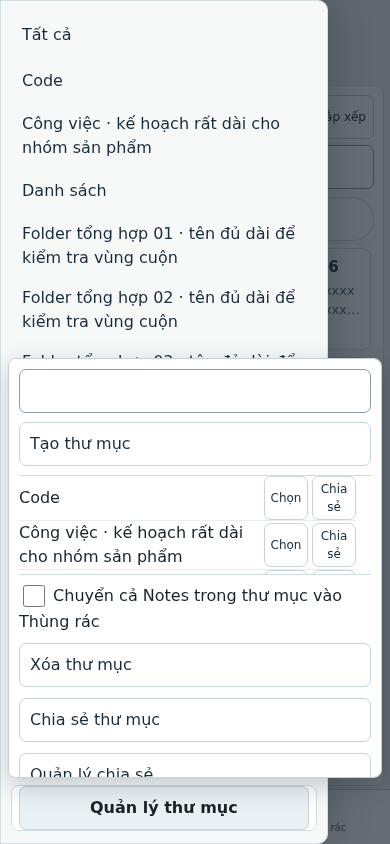
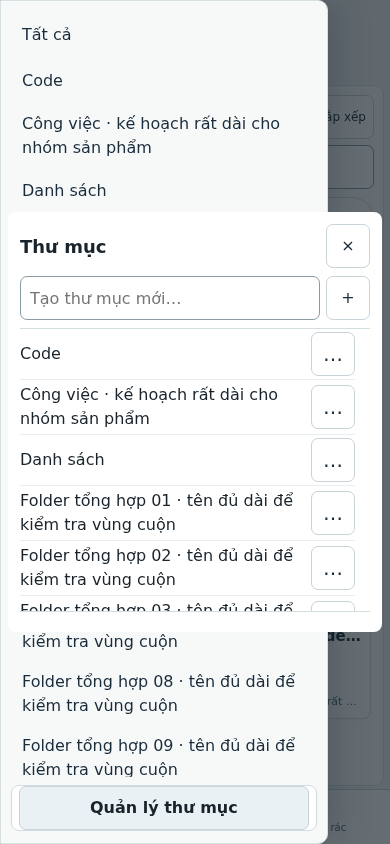
ui: simplify folder manager actions

diff --git a/public/app.js b/public/app.js
@@ -3,19 +3,19 @@ import {NoteCache,reusableNote,MAX_CACHED_NOTE_BYTES,MAX_CACHED_CONTENT_BYTES,MA
 import {SyncDraft,apiClient,patientRetry,RequestLane,clone} from './sync.js';
 const $=id=>document.getElementById(id),sessions=new Map(),requestLane=new RequestLane(),editorAnchor=document.createComment('editor-home');$('editor').before(editorAnchor);
 let active=null,notes=[],folders=[],folder='',scope='owner',shared=null,api=appApi(),authenticated=false,timer,refreshing=false,undo=null,shareTarget=null,canEdit=true,selecting=false,selected=new Set(),pending=0,foregroundWork=0,openSequence=0;
-let sortMode='updated-desc',noteOrder=[],orderRevision=null,organizing=false,sortOpen=false,folderManagerSignature='';
+let sortMode='updated-desc',noteOrder=[],orderRevision=null,organizing=false,sortOpen=false,folderManagerSignature='',folderActionFolder='',folderActionAnchor=null,folderDeleteTarget='';
 let sharedFolders=new Set(),folderShareSequence=0,cacheWrite=Promise.resolve(),cacheWriteVersion=0,composingEditor=false;
 let editorReturnFocus=null,editorReturnNoteId=null,inTrash=false,trashNotes=[],refreshQueued=false;const trashSelection=new Map();const contentCache=new Map();const cache=new NoteCache();let cacheScope=null,cacheState={notes:[],folders:[],content:{}};
 const actionMenuPortals=new Map(),searchIndex=new Map();
 function positionActionMenu(menu,panel){
- const anchor=menu.querySelector(':scope > summary')?.getBoundingClientRect();if(!anchor)return;
+ const anchor=(menu._anchorElement??menu.querySelector(':scope > summary'))?.getBoundingClientRect();if(!anchor)return;
  const zoom=Number.parseFloat(getComputedStyle(document.documentElement).zoom)||1,vv=window.visualViewport,left=vv?.offsetLeft??0,top=vv?.offsetTop??0,right=left+(vv?.width??document.documentElement.clientWidth),bottom=top+(vv?.height??document.documentElement.clientHeight),gap=8;
  panel.style.left='0px';panel.style.top='0px';panel.style.right='auto';panel.style.bottom='auto';
  const availableWidth=Math.max(0,right-left-gap*2)/zoom;panel.style.maxWidth=availableWidth+'px';panel.style.minWidth=Math.min(220,availableWidth)+'px';
  const width=panel.getBoundingClientRect().width,spaceBelow=bottom-anchor.bottom-gap,spaceAbove=anchor.top-top-gap,needed=panel.scrollHeight*zoom,useBelow=needed<=spaceBelow||spaceBelow>=spaceAbove,space=useBelow?spaceBelow:spaceAbove;
  const preferredHeight=panel.classList.contains('folder-manager-panel')?420:620;
- panel.style.maxHeight=Math.max(72,Math.min(preferredHeight,(space-gap)/zoom))+'px';
- const height=panel.getBoundingClientRect().height;let x=anchor.right-width;
+ panel.style.maxHeight=Math.max(72,Math.min(preferredHeight,(bottom-top-gap*2)/zoom))+'px';
+ const height=panel.getBoundingClientRect().height;if(panel.classList.contains('folder-manager-panel')){panel.style.left=Math.round((left+Math.max(gap,(right-left-width)/2))/zoom)+'px';panel.style.top=Math.round((top+Math.max(gap,(bottom-top-height)/2))/zoom)+'px';return;}let x=anchor.right-width;
  if(x<left+gap&&anchor.left+width<=right-gap)x=anchor.left;
  x=Math.max(left+gap,Math.min(x,Math.max(left+gap,right-width-gap)));
  let y=useBelow?anchor.bottom+gap:anchor.top-height-gap;
@@ -32,11 +32,11 @@ function installActionMenuPortals(){
   menu.addEventListener('toggle',()=>{panel.hidden=!menu.open;if(menu.open){positionActionMenu(menu,panel);if(focusFirstOnOpen){focusFirstOnOpen=false;panel.querySelector('button:not([disabled]),input:not([disabled]),select:not([disabled])')?.focus({preventScroll:true});}}else{focusFirstOnOpen=false;focusFirstOnTabUp=false;}});
   summary.addEventListener('keydown',event=>{if(event.key==='ArrowDown'&&!menu.open){event.preventDefault();focusFirstOnOpen=false;menu.open=true;panel.hidden=false;positionActionMenu(menu,panel);panel.querySelector('button:not([disabled]),input:not([disabled]),select:not([disabled])')?.focus({preventScroll:true});}else if(event.key==='Tab'&&menu.open&&!event.shiftKey){const first=panel.querySelector('button:not([disabled]),input:not([disabled]),select:not([disabled])');if(first){event.preventDefault();focusFirstOnTabUp=true;first.focus({preventScroll:true});}}});
   document.addEventListener('keyup',event=>{if(event.key==='Tab'&&focusFirstOnTabUp){focusFirstOnTabUp=false;event.preventDefault();setTimeout(()=>{if(menu.open)panel.querySelector('button:not([disabled]),input:not([disabled]),select:not([disabled])')?.focus({preventScroll:true});},0);}});
-  panel.addEventListener('keydown',event=>{if(event.key!=='Tab')return;const items=[...panel.querySelectorAll('button:not([disabled]),input:not([disabled]),select:not([disabled]),a[href]')].filter(item=>item.getClientRects().length);if(!items.length)return;if(event.shiftKey&&document.activeElement===items[0]){event.preventDefault();summary.focus({preventScroll:true});}else if(!event.shiftKey&&document.activeElement===items.at(-1)){event.preventDefault();menu.open=false;const all=[...document.querySelectorAll('button:not([disabled]),summary:not([aria-disabled=true]),input:not([disabled]),select:not([disabled]),a[href]')].filter(item=>item.getClientRects().length);const index=all.indexOf(summary);all[index+1]?.focus({preventScroll:true});}});
+  panel.addEventListener('keydown',event=>{if(event.key!=='Tab')return;const returnTarget=menu._anchorElement??summary;const items=[...panel.querySelectorAll('button:not([disabled]),input:not([disabled]),select:not([disabled]),a[href]')].filter(item=>item.getClientRects().length);if(!items.length)return;if(event.shiftKey&&document.activeElement===items[0]){event.preventDefault();returnTarget.focus({preventScroll:true});}else if(!event.shiftKey&&document.activeElement===items.at(-1)){event.preventDefault();menu.open=false;const all=[...document.querySelectorAll('button:not([disabled]),summary:not([aria-disabled=true]),input:not([disabled]),select:not([disabled]),a[href]')].filter(item=>item.getClientRects().length);const index=all.indexOf(returnTarget);all[index+1]?.focus({preventScroll:true});}});
  }
  document.addEventListener('scroll',event=>{if(event.target?.closest?.('.menu-panel-portal'))return;repositionOpenActionMenus();},true);window.addEventListener('resize',repositionOpenActionMenus);window.visualViewport?.addEventListener('resize',repositionOpenActionMenus);window.visualViewport?.addEventListener('scroll',repositionOpenActionMenus);
  document.addEventListener('pointerdown',event=>{for(const {menu,panel} of actionMenuPortals.values())if(menu.open&&!menu.contains(event.target)&&!panel.contains(event.target))menu.open=false;});
- document.addEventListener('click',event=>{const panel=event.target.closest?.('.menu-panel-portal');if(!panel||!event.target.closest('button,a[href]'))return;const menu=actionMenuPortals.get(panel.dataset.menuOwner)?.menu;if(menu?.open)menu.open=false;});
+ document.addEventListener('click',event=>{if(event.target.closest?.('[aria-haspopup=menu]'))return;const panel=event.target.closest?.('.menu-panel-portal');if(!panel||!event.target.closest('button,a[href]'))return;const menu=actionMenuPortals.get(panel.dataset.menuOwner)?.menu;if(menu?.open)menu.open=false;});
 }
 async function cacheAuth(state){sharedFolders.clear();state??=await api('auth');if(!state.authenticated)throw Object.assign(Error('LOGIN_REQUIRED'),{status:401});cacheScope=state.cacheScope;++cacheWriteVersion;const saved=await cache.get(cacheScope).catch(()=>null),validRows=Array.isArray(saved?.notes)?saved.notes.filter(n=>n&&typeof n.id==='string'&&typeof n.title==='string'&&typeof n.text==='string'&&typeof n.revision==='string'):[],validFolders=Array.isArray(saved?.folders)?saved.folders.filter(f=>typeof f==='string'):[];cacheState=saved&&typeof saved==='object'?{...saved,notes:validRows,folders:validFolders,content:saved.content&&typeof saved.content==='object'&&!Array.isArray(saved.content)?saved.content:{}}:{notes:[],folders:[],content:{}};contentCache.clear();const rows=new Map(cacheState.notes.map(n=>[n.id,n]));for(const [id,item] of Object.entries(cacheState.content)){if(reusableNote(item?.note,rows.get(id))&&cachedNoteSize(item.note)<=MAX_CACHED_NOTE_BYTES)contentCache.set(id,{note:item.note,usedAt:item.usedAt??0});else delete cacheState.content[id];}sortMode=sortModes.includes(cacheState.sortMode)?cacheState.sortMode:'updated-desc';noteOrder=Array.isArray(cacheState.order)?cacheState.order:[];orderRevision=cacheState.orderRevision??null;notes=cacheState.notes;folders=cacheState.folders;render();}
 async function clearPrivateCache({all=false}={}){const oldScope=cacheScope;cacheScope=null;++cacheWriteVersion;contentCache.clear();cacheState={notes:[],folders:[],content:{}};active?.dispose();active=null;sessions.clear();notes=[];folders=[];$('title').value='';$('text').value='';$('checklist').replaceChildren();$('history').replaceChildren();setEditorOpen(false);clearShareUI();render();await cacheWrite.catch(()=>{});try{if(oldScope)await cache.delete(oldScope);else if(all)await cache.clearAll();}catch{}}
@@ -107,7 +107,7 @@ function render(){
  $('folder-list').replaceChildren(folderButton('Tất cả','all',()=>{if(inTrash)setEditorOpen(false);inTrash=false;selecting=false;selected.clear();folder='';closeFolderDrawer();showListSurface();render();return refresh();}));
  for(const f of folders){const b=folderButton(f,'folder',()=>{if(inTrash)setEditorOpen(false);inTrash=false;selecting=false;selected.clear();folder=f;closeFolderDrawer();showListSurface();render();return refresh();});b.setAttribute('aria-pressed',String(folder===f));const row=document.createElement('div');row.className='folder-row';row.append(b);if(!shared&&sharedFolders.has(f)){const badge=button('Link',()=>{closeFolderDrawer();showFolderShares(f);});badge.className='folder-share-badge';badge.title='Đang chia sẻ · quản lý liên kết';badge.setAttribute('aria-label','Quản lý chia sẻ thư mục '+f);row.append(badge);}$('folder-list').append(row);}
  if(!shared)$('folder-list').append(folderButton('Thùng rác','trash',showTrash));
- $('folder').replaceChildren(new Option('Chưa phân loại',''),...folders.map(f=>new Option(f,f)));$('folders')?.replaceChildren(...folders.map(f=>new Option(f,f)));const destination=$('move-folder').value;$('move-folder').replaceChildren(new Option('Chưa phân loại',''),...folders.map(f=>new Option(f,f)));if(folders.includes(destination))$('move-folder').value=destination;const current=$('manage-folder').value;$('manage-folder').replaceChildren(new Option('Chọn thư mục…',''),...folders.map(f=>new Option(f,f)));if(folders.includes(current))$('manage-folder').value=current;const rows=$('folder-manager-rows'),signature=JSON.stringify(folders);if(signature!==folderManagerSignature){rows.replaceChildren(...folders.map(name=>{const row=document.createElement('div');row.className='folder-manager-row';const label=document.createElement('span');label.textContent=name;const choose=button('Chọn',()=>{$('manage-folder').value=name;});const shares=button('Chia sẻ',()=>{ $('manage-folder').value=name;showFolderShares(name).catch(fail);});row.append(label,choose,shares);return row;}));folderManagerSignature=signature;}
+ $('folder').replaceChildren(new Option('Chưa phân loại',''),...folders.map(f=>new Option(f,f)));$('folders')?.replaceChildren(...folders.map(f=>new Option(f,f)));const destination=$('move-folder').value;$('move-folder').replaceChildren(new Option('Chưa phân loại',''),...folders.map(f=>new Option(f,f)));if(folders.includes(destination))$('move-folder').value=destination;const rows=$('folder-manager-rows'),signature=JSON.stringify(folders);if(signature!==folderManagerSignature){rows.replaceChildren(...folders.map(name=>{const row=document.createElement('div');row.className='folder-manager-row';const label=document.createElement('span');label.textContent=name;const more=button('…',()=>{const menu=$('folder-row-actions');if(menu.open&&folderActionFolder===name){menu.open=false;more.setAttribute('aria-expanded','false');more.focus({preventScroll:true});return;}folderActionFolder=name;folderActionAnchor=more;menu._anchorElement=more;$('folder-action-name').textContent=name;menu.open=true;more.setAttribute('aria-expanded','true');requestAnimationFrame(()=>menu.open&&$('folder-action-share').focus({preventScroll:true}));});more.setAttribute('aria-label','Thao tác thư mục '+name);more.setAttribute('aria-haspopup','menu');more.setAttribute('aria-expanded','false');more.title='Thao tác thư mục '+name;row.append(label,more);return row;}));folderManagerSignature=signature;}
 }
 async function refresh({background=false,security=false}={}){
  if(!authenticated&&!shared)return;if(background&&!security&&(backgroundBlocked()||active?.dirty))return;if(refreshing){if(!background)refreshQueued=true;return;}const requestScope=cacheScope;refreshing=true;if(!background)busy(true);
@@ -219,16 +219,15 @@ $('history').addEventListener('change',()=>{if(inTrash)return;const v=active.not
 $('conflict-copy').addEventListener('click',async()=>{const old=active;const note={...clone(old.note),id:crypto.randomUUID(),title:(old.note.title+' · bản sao').slice(0,200),history:[]};delete note.revision;active=makeSession(note);active.edit({});fill();await save();if(old) sessions.set(old.note.id,old);});
 $('remote-version').addEventListener('click',async()=>{if(!await hold({navigation:true}))return;const id=active.note.id;sessions.delete(id);active=null;await openNote(id);status('Đã mở bản máy chủ. Thay đổi xung đột vẫn ở trong phiên hiện tại.');});
 $('create-folder').addEventListener('click',async()=>{try{await api('folders',{method:'POST',data:{action:'create',folder:$('new-folder').value}});$('new-folder').value='';await refresh();}catch(e){fail(e);}});
-$('remove-folder').addEventListener('click',async()=>{const f=$('manage-folder').value;const deleteNotes=$('delete-folder-notes').checked;if(!f||!confirm(deleteNotes?'Xóa thư mục và chuyển toàn bộ Note trong thư mục vào trạng thái đã xóa?':'Xóa thư mục và đưa các Note về danh sách tự do?'))return;try{await api('notes',{method:'POST',data:{action:'folderDelete',folder:f,deleteNotes}});if(folder===f)folder='';$('delete-folder-notes').checked=false;await refresh();}catch(e){fail(e);}});
+$('close-folder-manager').addEventListener('click',()=>{$('folder-controls').open=false;$('folder-controls').querySelector(':scope > summary')?.focus({preventScroll:true});});$('folder-row-actions').addEventListener('toggle',()=>folderActionAnchor?.setAttribute('aria-expanded',String($('folder-row-actions').open)));$('folder-action-share').addEventListener('click',()=>{const f=folderActionFolder;$('folder-controls').open=false;if(f)createShare('folder',f).catch(fail);});$('folder-action-manage-shares').addEventListener('click',()=>{const f=folderActionFolder;$('folder-controls').open=false;if(f)showFolderShares(f).catch(fail);});$('folder-action-delete').addEventListener('click',()=>{folderDeleteTarget=folderActionFolder;if(!folderDeleteTarget)return;$('folder-controls').open=false;$('delete-folder-notes').checked=false;$('folder-delete-description').textContent=`Bạn muốn xóa thư mục “${folderDeleteTarget}”?`;if(!$('folder-delete-dialog').open)$('folder-delete-dialog').showModal();$('cancel-folder-delete').focus({preventScroll:true});});$('cancel-folder-delete').addEventListener('click',()=>{folderDeleteTarget='';$('folder-delete-dialog').close();(folderActionAnchor?.isConnected?folderActionAnchor:$('folder-controls').querySelector(':scope > summary'))?.focus({preventScroll:true});});$('folder-delete-dialog').addEventListener('cancel',()=>{folderDeleteTarget='';});$('confirm-folder-delete').addEventListener('click',async()=>{const f=folderDeleteTarget,deleteNotes=$('delete-folder-notes').checked;if(!f)return;$('confirm-folder-delete').disabled=true;try{await api('notes',{method:'POST',data:{action:'folderDelete',folder:f,deleteNotes}});if(folder===f)folder='';folderDeleteTarget='';$('folder-delete-dialog').close();$('delete-folder-notes').checked=false;await refresh();}catch(e){fail(e);}finally{$('confirm-folder-delete').disabled=false;}});
 $('note-sharing').addEventListener('toggle',()=>{if($('note-sharing').open&&!inTrash&&!shared&&active?.baseRevision)loadShares('note',active.note.id).catch(fail);});
-$('manage-folder-shares').addEventListener('click',()=>{const f=$('manage-folder').value;if(f)showFolderShares(f).catch(fail);else status('Hãy chọn thư mục để quản lý chia sẻ.');});
-$('share-folder').addEventListener('click',()=>{const f=$('manage-folder').value;if(f)createShare('folder',f).catch(fail);});$('share-note').addEventListener('click',()=>{if(active&&!active.dirty&&active.baseRevision)createShare('note',active.note.id).catch(fail);else status('Hãy lưu Note trước khi tạo link.');});
+$('share-note').addEventListener('click',()=>{if(active&&!active.dirty&&active.baseRevision)createShare('note',active.note.id).catch(fail);else status('Hãy lưu Note trước khi tạo link.');});
 $('copy-share').addEventListener('click',()=>copyShareLink($('share-url').value,$('share-url'),$('share-copy-status')));
 
 function updateViewportLayout(){resizeTitle();if(!$('editor').hidden)$('editor').setAttribute('aria-modal',String(innerWidth<=1200));const viewport=window.visualViewport;const inset=viewport?Math.max(0,window.innerHeight-viewport.height-viewport.offsetTop):0;document.documentElement.style.setProperty('--keyboard-inset',`${Math.round(inset)}px`);if(innerWidth>1200&&$('workspace').classList.contains('folder-drawer-open'))closeFolderDrawer();const focused=document.activeElement;if(innerWidth<=1200&&inset>80&&$('editor').contains(focused))focused.scrollIntoView({block:'nearest',inline:'nearest'});}
 window.visualViewport?.addEventListener('resize',updateViewportLayout);window.addEventListener('resize',updateViewportLayout);window.addEventListener('orientationchange',updateViewportLayout);updateViewportLayout();
 document.addEventListener('focusin',event=>{if(innerWidth<=1200&&$('editor').contains(event.target))requestAnimationFrame(()=>event.target.scrollIntoView({block:'nearest',inline:'nearest'}));});
-document.addEventListener('keydown',event=>{if(event.key!=='Escape'&&!(event.key==='Tab'&&($('workspace').classList.contains('folder-drawer-open')||!$('editor').hidden)))return;const panel=$('folder-panel');if(event.key==='Tab'&&!$('editor').hidden&&$('editor').getAttribute('aria-modal')==='true'&&!$('workspace').classList.contains('folder-drawer-open')){const root=$('editor'),items=[...root.querySelectorAll('button:not([disabled]),summary:not([aria-disabled=true]),input:not([disabled]),textarea:not([disabled]),select:not([disabled]),a[href]')].filter(el=>el.getClientRects().length);if(items.length){const first=items[0],last=items.at(-1);if(event.shiftKey&&document.activeElement===first){event.preventDefault();last.focus();}else if(!event.shiftKey&&document.activeElement===last){event.preventDefault();first.focus();}}return;}if(event.key==='Tab'&&$('workspace').classList.contains('folder-drawer-open')){const items=[...panel.querySelectorAll('button:not([disabled]),input:not([disabled]),select:not([disabled]),summary')].filter(el=>el.getClientRects().length);if(items.length){const first=items[0],last=items.at(-1);if(event.shiftKey&&document.activeElement===first){event.preventDefault();last.focus();}else if(!event.shiftKey&&document.activeElement===last){event.preventDefault();first.focus();}}return;}if(event.key==='Escape'){if($('workspace').classList.contains('folder-drawer-open')){event.preventDefault();closeFolderDrawer();return;}const opened=[...document.querySelectorAll('#workspace details[open],#editor details[open]')].filter(el=>el.getClientRects().length).at(-1);if(opened){event.preventDefault();opened.open=false;const actionPanel=actionMenuPortals.get(opened.id)?.panel;if(actionPanel)actionPanel.hidden=true;opened.querySelector(':scope > summary')?.focus({preventScroll:true});return;}if(!$('editor').hidden){event.preventDefault();$('close-editor').click();}}});
+document.addEventListener('keydown',event=>{if(event.key!=='Escape'&&!(event.key==='Tab'&&($('workspace').classList.contains('folder-drawer-open')||!$('editor').hidden)))return;const panel=$('folder-panel');if(event.key==='Tab'&&!$('editor').hidden&&$('editor').getAttribute('aria-modal')==='true'&&!$('workspace').classList.contains('folder-drawer-open')){const root=$('editor'),items=[...root.querySelectorAll('button:not([disabled]),summary:not([aria-disabled=true]),input:not([disabled]),textarea:not([disabled]),select:not([disabled]),a[href]')].filter(el=>el.getClientRects().length);if(items.length){const first=items[0],last=items.at(-1);if(event.shiftKey&&document.activeElement===first){event.preventDefault();last.focus();}else if(!event.shiftKey&&document.activeElement===last){event.preventDefault();first.focus();}}return;}if(event.key==='Tab'&&$('workspace').classList.contains('folder-drawer-open')){const items=[...panel.querySelectorAll('button:not([disabled]),input:not([disabled]),select:not([disabled]),summary')].filter(el=>el.getClientRects().length);if(items.length){const first=items[0],last=items.at(-1);if(event.shiftKey&&document.activeElement===first){event.preventDefault();last.focus();}else if(!event.shiftKey&&document.activeElement===last){event.preventDefault();first.focus();}}return;}if(event.key==='Escape'){if($('folder-row-actions').open){event.preventDefault();$('folder-row-actions').open=false;folderActionAnchor?.focus({preventScroll:true});return;}if($('folder-delete-dialog').open){event.preventDefault();$('folder-delete-dialog').close();folderActionAnchor?.focus({preventScroll:true});return;}if($('workspace').classList.contains('folder-drawer-open')){event.preventDefault();closeFolderDrawer();return;}const opened=[...document.querySelectorAll('#workspace details[open],#editor details[open]')].filter(el=>el.getClientRects().length).at(-1);if(opened){event.preventDefault();opened.open=false;const actionPanel=actionMenuPortals.get(opened.id)?.panel;if(actionPanel)actionPanel.hidden=true;(opened.id==='folder-row-actions'&&folderActionAnchor?.isConnected?folderActionAnchor:opened.querySelector(':scope > summary'))?.focus({preventScroll:true});return;}if(!$('editor').hidden){event.preventDefault();$('close-editor').click();}}});
 
 addEventListener('online',()=>{boot().then(()=>{if(active?.dirty&&active.status!=='conflict')save();});});addEventListener('offline',()=>status('Ngoại tuyến · thay đổi chưa lưu chỉ còn trong phiên trang này.'));
 addEventListener('beforeunload',e=>{if([...sessions.values()].some(s=>s.dirty)){e.preventDefault();e.returnValue='';}});

diff --git a/public/app.css b/public/app.css
@@ -11,7 +11,6 @@
 @media(max-width:380px){#bulk-toolbar>span{max-width:84px;overflow:hidden;text-overflow:ellipsis;white-space:nowrap}.workspace-toolbar #workspace-status{font-size:10px}.editor-top #save-status{max-width:20%}}
 @media(hover:none){button,.action-menu>summary{min-height:44px}}
 @media(max-width:600px){#editor{inset:0;width:100%;height:100dvh;max-height:100dvh;border:0;border-radius:0}#editor-backdrop:not([hidden]){background:#fff}}
-.menu-panel-portal.folder-manager-panel{position:fixed;width:min(340px,calc(100vw - 24px));max-height:min(65dvh,560px);overflow:auto;padding:10px;border:1px solid #c4d0d5;box-shadow:0 8px 26px #14212c38}
 
 body.quick-compose-open #editor-backdrop{display:none!important}
 @media(min-width:961px){.layout.editor-open{grid-template-columns:minmax(280px,36%) minmax(0,1fr);gap:10px}.layout.editor-open>#folder-panel{display:none}.layout.editor-open>#list-pane{grid-column:1;grid-row:1}.layout.editor-open>#editor{position:relative;inset:auto;grid-column:2;grid-row:1;width:auto;height:auto;max-height:none;min-height:0;border:1px solid #c8d2d7;border-radius:9px;box-shadow:0 2px 10px #14212c14}#editor-backdrop{display:none!important}#editor#editor.quick-composer{position:fixed;inset:auto 4vw 12px;width:auto;height:320px;max-height:48dvh;min-height:210px;box-shadow:0 12px 50px #14212c45}}
@@ -27,5 +26,5 @@ body.quick-compose-open #editor-backdrop{display:none!important}
 @media(max-width:560px){.workspace-toolbar{min-height:44px}.quick-create{min-height:44px;margin:0 0 5px}.editor-top{min-height:48px;padding-inline:5px}.quick-composer .editor-top #close-editor{min-width:44px}.quick-composer .editor-top #save-status{font-size:11px}.folder-manager-row{grid-template-columns:minmax(0,1fr) 44px 44px}.folder-manager-row button{padding:0;font-size:12px}}
 
 .selection-active .workspace-toolbar>#folder-collapse-toggle,.selection-active .workspace-toolbar>#select-mode,.selection-active .workspace-toolbar>#workspace-status{display:none!important}.selection-active .workspace-toolbar{min-height:48px}.quick-composer #editor-more .menu-panel{max-height:min(60dvh,480px)}
-.menu-panel-portal.folder-manager-panel{position:fixed;display:flex;flex-direction:column;gap:7px;width:min(380px,calc(100vw - 16px));max-height:calc(100dvh - 16px);overflow-x:hidden;overflow-y:auto;overscroll-behavior:contain}.folder-manager-panel .folder-table{flex:0 1 auto;min-height:100px;max-height:min(32dvh,260px);overflow:auto;overscroll-behavior:contain;scrollbar-gutter:stable}.editor-top #expand-composer:before{content:none}.editor-top #expand-composer svg{display:block;width:20px;height:20px;fill:none;stroke:currentColor;stroke-width:2;stroke-linecap:round;stroke-linejoin:round}
+.menu-panel-portal.folder-manager-panel{position:fixed;display:flex;flex-direction:column;gap:8px;width:min(380px,calc(100vw - 16px));height:min(420px,calc(100dvh - 16px));max-height:calc(100dvh - 16px);overflow:hidden;padding:12px;box-sizing:border-box}.folder-manager-heading{flex:0 0 auto;display:flex;align-items:center;justify-content:space-between;min-height:44px}.folder-manager-heading h2{margin:0;font-size:18px}.folder-manager-heading button,.folder-create-row button,.folder-manager-row button{flex:0 0 44px;width:44px;min-width:44px;height:44px;padding:0}.folder-create-row{flex:0 0 auto;display:flex;gap:6px;align-items:center}.folder-create-row input{height:44px}.folder-table{flex:1 1 0;min-height:0;max-height:none;overflow:auto;overscroll-behavior:contain;scrollbar-gutter:stable;border-block:1px solid var(--line)}.folder-manager-row{grid-template-columns:minmax(0,1fr) 44px;gap:6px;padding:3px 0}.folder-manager-row>span{min-width:0;overflow-wrap:anywhere}.folder-manager-row>button{font-size:20px}.folder-row-actions-panel{width:230px;min-width:200px;max-height:calc(100dvh - 16px)}.folder-row-actions-panel>button{width:100%;text-align:left}.folder-delete-notes{display:flex;align-items:center;gap:9px;margin:16px 0}.folder-delete-actions{display:flex;justify-content:flex-end;gap:8px}.folder-delete-actions button:last-child{border-color:#963d32;background:#963d32;color:#fff}#folder-delete-dialog{width:min(420px,calc(100vw - 32px));max-width:none;max-height:calc(100dvh - 32px);overflow:auto;border:1px solid #c4d0d5;border-radius:12px;padding:20px;background:white;color:var(--ink);box-shadow:0 16px 48px #14212c38}#folder-delete-dialog::backdrop{background:#14212c77}#folder-delete-dialog h2{margin:0 0 8px;font-size:20px}#folder-delete-description{overflow-wrap:anywhere}.editor-top #expand-composer:before{content:none}.editor-top #expand-composer svg{display:block;width:20px;height:20px;fill:none;stroke:currentColor;stroke-width:2;stroke-linecap:round;stroke-linejoin:round}
 .quick-composer .editor-scroll{display:flex;flex-direction:column}.quick-composer .editor-content{flex:1 0 0;height:100%;min-height:0}.quick-composer #text{flex:1 1 0;min-height:40px;max-height:none;resize:none}.quick-composer #checklist:empty{display:none}.quick-composer #checklist:not(:empty){display:block;flex:0 1 auto;max-height:30%;overflow:auto;overscroll-behavior:contain}

diff --git a/public/index.html b/public/index.html
@@ -37,14 +37,18 @@
           <details id="folder-controls" class="action-menu">
             <summary>Quản lý thư mục</summary>
             <div class="menu-panel folder-manager-panel">
-            <input id="new-folder" maxlength="80" aria-label="Tên thư mục mới">
-            <button id="create-folder">Tạo thư mục</button>
-            <div class="folder-table" role="group" aria-label="Danh sách thư mục"><div id="folder-manager-rows"></div></div>
-            <select id="manage-folder" aria-label="Chọn thư mục" hidden></select>
-            <label><input id="delete-folder-notes" type="checkbox"> Chuyển cả Notes trong thư mục vào Thùng rác</label>
-            <button id="remove-folder">Xóa thư mục</button>
-            <button id="share-folder">Chia sẻ thư mục</button>
-            <button id="manage-folder-shares">Quản lý chia sẻ</button>
+              <header class="folder-manager-heading"><h2>Thư mục</h2><button id="close-folder-manager" type="button" aria-label="Đóng quản lý thư mục" title="Đóng">×</button></header>
+              <div class="folder-create-row"><label class="visually-hidden" for="new-folder">Tên thư mục mới</label><input id="new-folder" maxlength="80" aria-label="Tên thư mục mới" placeholder="Tạo thư mục mới…"><button id="create-folder" type="button" aria-label="Tạo thư mục" title="Tạo thư mục">+</button></div>
+              <div class="folder-table" role="group" aria-label="Danh sách thư mục"><div id="folder-manager-rows"></div></div>
+              <details id="folder-row-actions" class="action-menu">
+                <summary class="visually-hidden" aria-label="Thao tác thư mục">Thao tác thư mục</summary>
+                <div class="menu-panel folder-row-actions-panel">
+                  <strong id="folder-action-name" class="folder-row-actions-title"></strong>
+                  <button id="folder-action-share" type="button">Chia sẻ</button>
+                  <button id="folder-action-manage-shares" type="button">Quản lý chia sẻ</button>
+                  <button id="folder-action-delete" type="button">Xóa thư mục</button>
+                </div>
+              </details>
             </div>
           </details>
         </aside>
@@ -81,6 +85,12 @@
       </div>
 
       <button id="editor-backdrop" type="button" aria-label="Đóng trình soạn thảo" hidden></button>
+      <dialog id="folder-delete-dialog" aria-labelledby="folder-delete-title">
+        <h2 id="folder-delete-title">Xóa thư mục</h2>
+        <p id="folder-delete-description"></p>
+        <label class="folder-delete-notes"><input id="delete-folder-notes" type="checkbox"> Chuyển cả Notes trong thư mục vào Thùng rác</label>
+        <div class="folder-delete-actions"><button id="cancel-folder-delete" type="button">Hủy</button><button id="confirm-folder-delete" type="button">Xóa thư mục</button></div>
+      </dialog>
       <section id="editor" role="dialog" aria-modal="true" aria-label="Trình soạn thảo" hidden>
         <header class="editor-top">
           <button id="close-editor">← Danh sách</button>

diff --git a/docs/UI-REDESIGN-20261030/REPORT.md b/docs/UI-REDESIGN-20261030/REPORT.md
@@ -125,7 +125,7 @@ Hosted CI final handoff: current PR head `0bd98e5e5528e635be1e50833bc5f29438a5ea
 ## Screenshot correction — composer and folder manager
 
 - Composer 390×420: `editor-scroll` và `editor-content` giờ là flex column có chiều cao xác định; textarea nhận phần dư (`flex: 1 1 0`, `min-height: 0`). Khi checklist có phần tử thật, nó giữ vùng riêng giới hạn chiều cao và tự cuộn; checklist rỗng không chiếm chỗ. Browser assertion đo textarea cao hơn 180 px và khoảng dư cuối dưới 24 px; screenshot [composer 390×420](candidate/quick-compose-phone-390-low-viewport.png).
-- Folder manager là panel nổi gọn; danh sách có vùng cuộn riêng, panel ngoài vẫn cuộn để tới các thao tác cuối. Test fixture tạo nhiều folder synthetic, cuộn đến hàng cuối và click `Chọn` ở phone 390×844, iPad dọc và PC 1280×720; đồng thời cuộn panel và click `Quản lý chia sẻ`. Ảnh: [phone đầu](candidate/folder-management-phone-390-top.png), [phone cuối](candidate/folder-management-phone-390-bottom.png), [iPad đầu](candidate/folder-management-ipad-portrait-top.png), [iPad cuối](candidate/folder-management-ipad-portrait-bottom.png), [PC đầu](candidate/folder-management-pc-1280-top.png), [PC cuối](candidate/folder-management-pc-1280-bottom.png).
+- Folder manager (sửa tiếp sau phản hồi): header `Thư mục`/Đóng và hàng tạo folder giữ cố định; chỉ danh sách có `overflow:auto`; panel cha `overflow:hidden`, không có cuộn lồng. Mỗi folder có menu `…` riêng; xóa mở hộp xác nhận và checkbox chuyển Notes chỉ nằm trong hộp đó. Browser test dùng 14 folder tổng hợp có tên dài, cuộn danh sách và mở menu ở hàng cuối, kiểm bounding box từng action trong viewport rồi click thật `Quản lý chia sẻ` ở phone 390×844, iPad dọc 744×1133 và PC 1280×720. Chia sẻ/revoke vẫn pass. Ảnh mới đã được mở kiểm tra bằng image viewer: [phone đầu](candidate/folder-management-phone-390-top.png), [phone cuối + menu](candidate/folder-management-phone-390-bottom-menu.png), [iPad đầu](candidate/folder-management-ipad-portrait-top.png), [iPad cuối + menu](candidate/folder-management-ipad-portrait-bottom-menu.png), [PC đầu](candidate/folder-management-pc-1280-top.png), [PC cuối + menu](candidate/folder-management-pc-1280-bottom-menu.png), [xác nhận xóa](candidate/folder-delete-confirmation-pc.png). Fixture không chứa dữ liệu người dùng.
 - Chỉ chạy browser case `workspace-redesign-synthetic-layout-menus-editor-and-compose`: PASS; không chạy lại benchmark hoặc toàn bộ suite. Thay đổi không đụng API/auth/Firestore; PR #39 bỏ phần rename khỏi frontend/backend và test của nó. Rename giữ riêng ở draft PR #40, fixture 32/32 PASS; cloud runtime/Firestore qualification còn thiếu. Project/quota blocker cũ không được thử lại, billing/IAM/Production không đổi.
 - Screenshot Chromium headless với dữ liệu tổng hợp; không xác minh S25 Ultra/iPad thật, bàn phím OS hay IME.
 
@@ -138,3 +138,13 @@ Hosted CI final handoff: current PR head `0bd98e5e5528e635be1e50833bc5f29438a5ea
 - Rename không còn trong diff UI PR #39. Backend/API/repository và fixture tests được giữ ở [draft PR #40](https://github.com/hunghvt-cyber/web-notes/pull/40), chưa qualification Vercel OIDC/Cloud Firestore. Không thử lại GCP project/quota và không thay billing/IAM/Production.
 
 Hosted CI evidence for this incremental candidate: PR #39 code SHA `3c43cf889f5a2d72bcbd54e54cb4a91635cfe4a3`, tree `be7486efe245353016da19214cf67d457dc01ae9`, GitHub Actions [run #506](https://github.com/hunghvt-cyber/web-notes/actions/runs/41039292251) passed both `test` and `browser`. Rename-only draft PR #40 SHA `acc5c6e04c366e3681db3a80886443c13f4d06d8`, tree `9e5eb06ca73d57915905b1f738c2c8f8b9fb6c35`, Actions [run #505](https://github.com/hunghvt-cyber/web-notes/actions/runs/41038668746) also passed both jobs; this does not replace cloud qualification. PR #39 and #40 remain drafts; no deployment was created.
+
+
+## Incremental folder-manager simplification (draft #39, no deploy)
+
+- Scope chỉ gồm folder manager; composer không đổi. Bỏ các nút `Chọn`/`Chia sẻ` trực tiếp và nhóm thao tác cố định; thay bằng nút `…` có accessible name theo đúng tên folder. `Chia sẻ`, `Quản lý chia sẻ`, `Xóa thư mục` được lấy từ menu hàng đó. Đóng menu giữ focus về trigger. Checkbox xóa Notes được chuyển vào native confirm dialog và reset khi mở; Cancel không gọi API. Rename vẫn không có UI/API trong PR #39, giữ riêng draft PR #40.
+- Đã sửa lỗi click trigger menu hàng làm menu cha đóng trước: click handler giữ panel cha khi target là menu trigger. Folder manager được định vị ở giữa visual viewport, có chiều cao giới hạn; bảng là vùng scroll duy nhất. Test assertion kiểm tra header/nút tạo hiện hữu, overflow của panel/table và menu action cuối trong viewport. Mục cuối được click thật, không chỉ kiểm tra node.
+- Kết quả liên quan: `BROWSER_ONLY=workspace-redesign-synthetic-layout-menus-editor-and-compose npm run test:browser` PASS (13.4 s); các case `folder-share-reuses-existing-link-and-copies-to-clipboard`, `folder-share-badge-reload-and-revoke`, `action-menu-visual-viewport-edge-scroll-and-owner-controls-removed` PASS (1.4 s / 2.4 s / 1.0 s). `npm run check:source` PASS (49 file); `node --check` cho app/browser script và `git diff --check` PASS. Không chạy toàn bộ suite, benchmark, deploy hay cloud qualification.
+- Đã kiểm tra PNG tổng hợp tại phone, iPad dọc, PC: hàng tạo và đóng còn nhìn được; danh sách cuộn riêng; menu của folder cuối chứa đủ 3 action và bấm được. Ảnh là Chromium headless với CSS viewport, không phải kiểm tra thiết bị thật/IME/bàn phím OS.
+- Key4 / `gemini-3.5-flash-lite` — review source/code, 1 lượt; Key5 / cùng model — cross-check acceptance/evidence, 1 lượt. Wrapper `/home/admin/bin/gemini-task --help` xác nhận chọn key `--key`; hai lệnh chạy song song (concurrency 2), exit 0, không lỗi/retry/timeout. Tổng wall wait quan sát khoảng 2 s; wrapper không cung cấp duration theo key đáng tin cậy. Key4 nhắc cấu trúc menu/focus/confirm; không nêu finding lỗi cụ thể. Mô tả folder manager thành “modal” là không chính xác cho panel chính (chỉ confirm delete dùng dialog), Codex bác bỏ; mã nguồn xác nhận panel là popover. Key5 đối chiếu cấu trúc/test nhưng wrapper chỉ text, không xem pixel; Codex tự mở các PNG để review. Không có baseline tương đương để khẳng định tiết kiệm thời gian; phần chuẩn bị/kiểm chứng Codex ước tính khoảng 25 phút, không bấm giờ độc lập. Lần sau: key4 hữu ích cho code/focus/quyền, key5 cho mapping checklist; dùng hai luồng song song một lượt mỗi key, nhưng ảnh vẫn cần người review mở trực tiếp.
+- Phần code chỉ thay HTML/CSS/JS và browser smoke tests; API/backend/Firestore/auth/cache không đổi. PR #39 vẫn draft, Production không đổi, chưa deploy.
